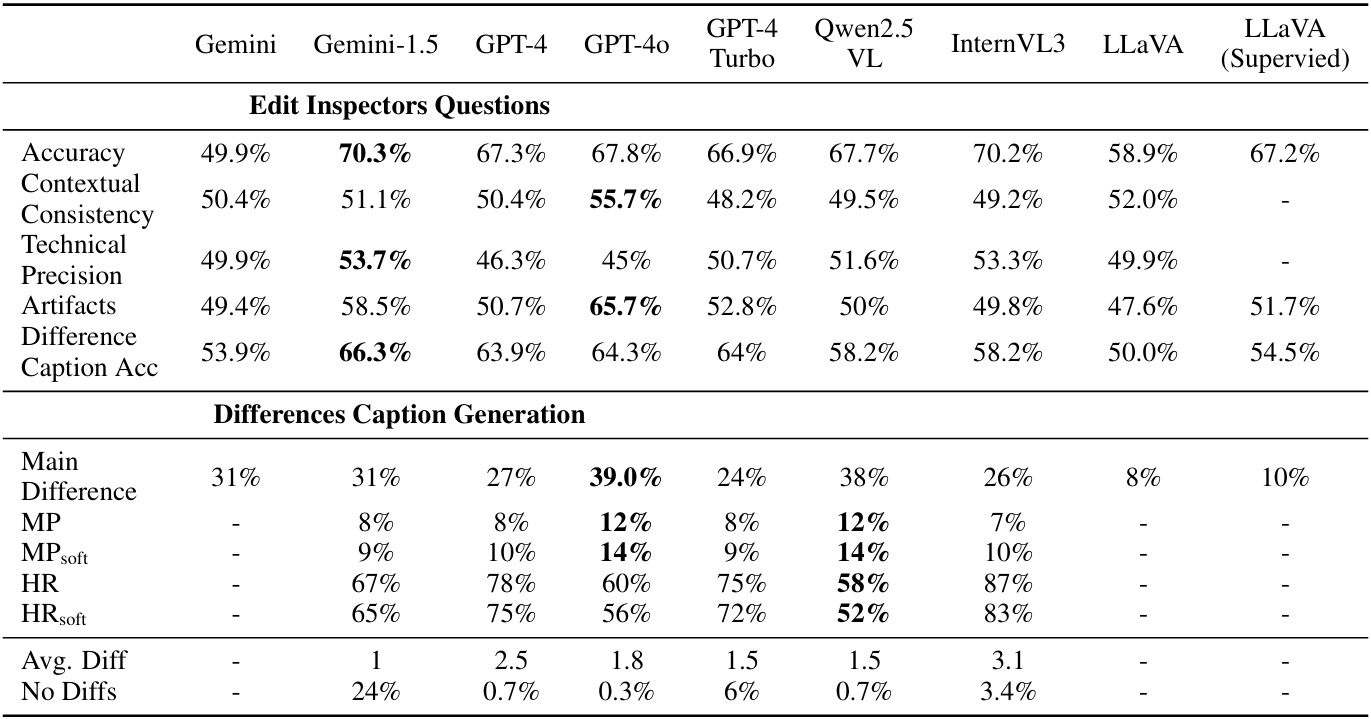
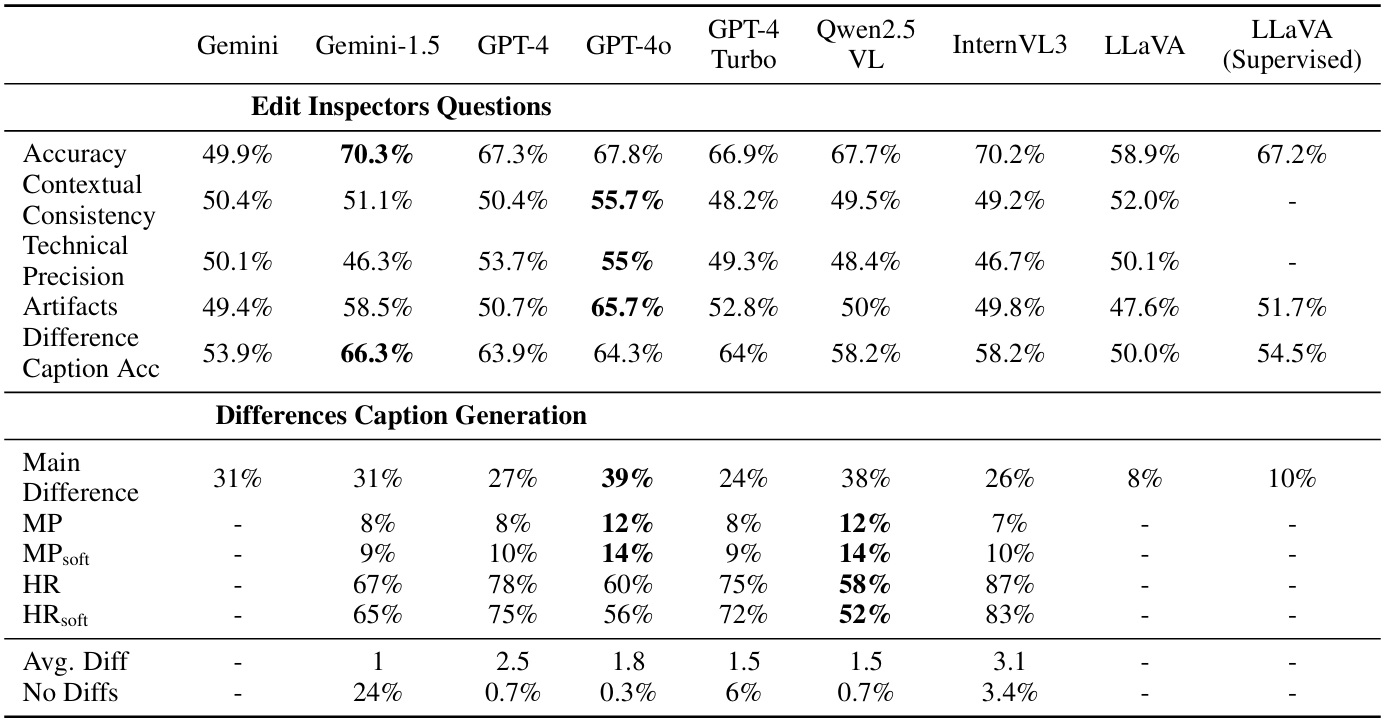
works

diff --git a/index.html b/index.html
@@ -242,7 +242,7 @@
             <img src="static/images/benchmark%20.jpg">
             <h2 class="subtitle has-text-centered">
                 Combined performance on Edit Inspectors questions, and the Difference Caption Generation task.
-                Gemini-1.5 model demonstrates the best performance in Edit Inspectors questions. Qwen2.5-VL achieves the
+                GPT-4o model demonstrates the best performance in Edit Inspectors questions. Qwen2.5-VL achieves the
                 highest precision in predicting differences, with the lowest hallucination rate.
             </h2>
 
